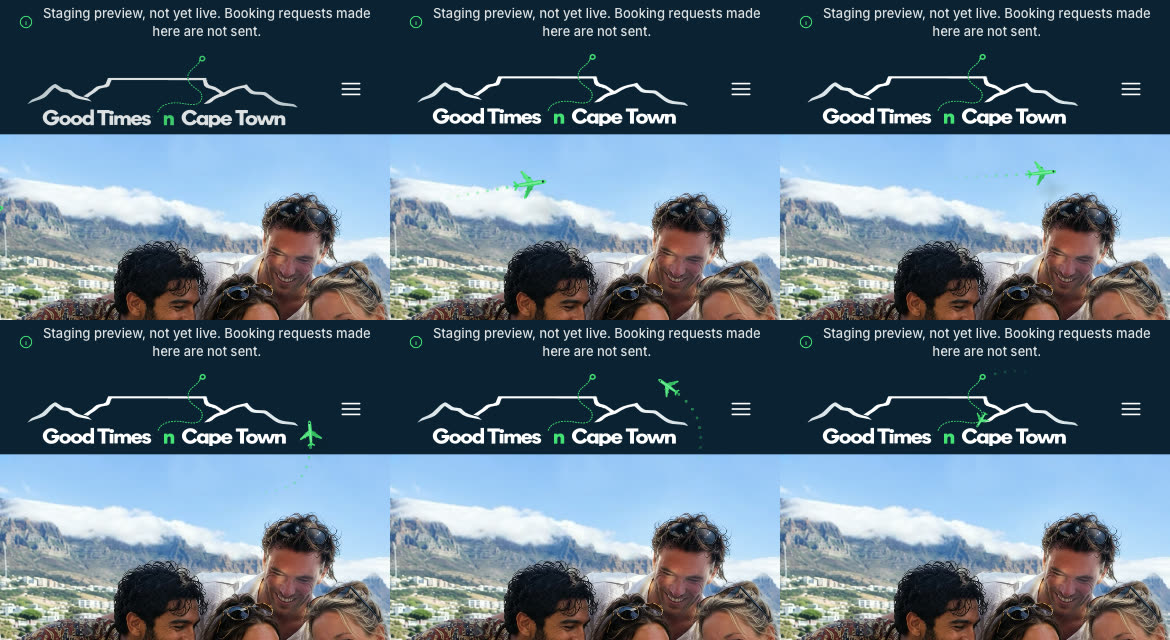
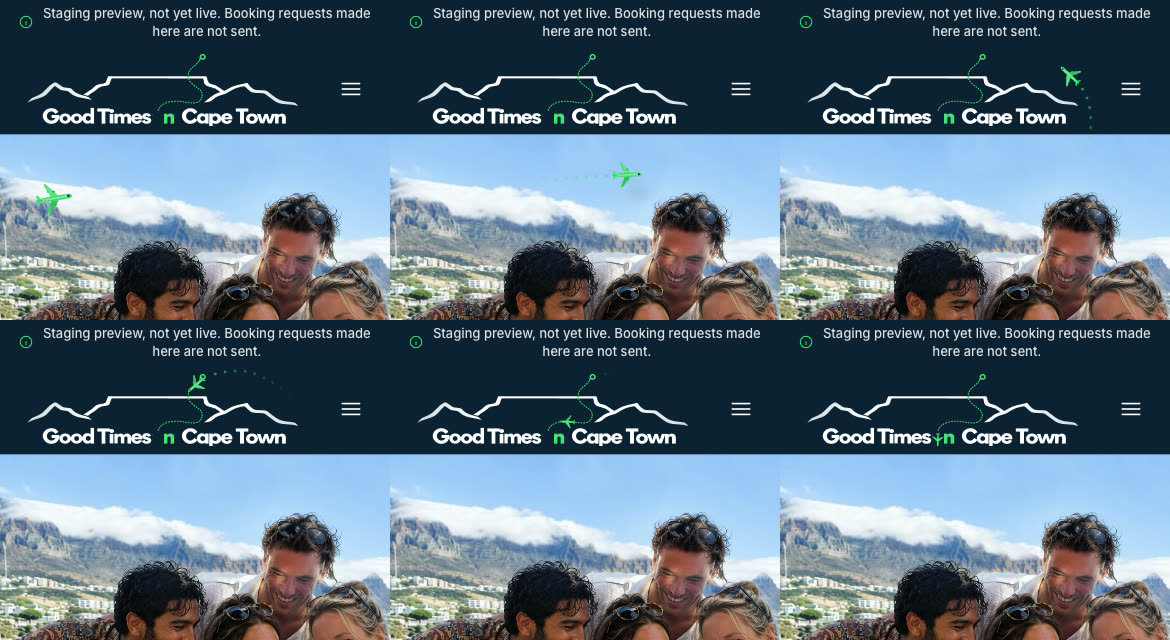
Slow the brand aircraft's flight to 31.5% of its first pace
The owner asked for the hero's aircraft 65% slower, then 10% slower again
(6 Nov 2026). Every time in the flight (the path, the touchdown and the
hand-over to the logo) is now stretched by 1 / (0.35 × 0.9), and the bank
is scaled with it so the aircraft leans the same at the slower speed.

The entrance now lasts about 4.8 s on desktop, 4.0 s on tablets and 2.9 s
on phones; the aircraft lands at about 4.0 s on desktop and the navigation
titles still start at its landing. The call to action keeps its own moment
(2.2 s). The e2e entrance bounds, the QA tool's sampling times, the plane
report (docs/motion/01) and its evidence frames follow the new pace.

diff --git a/src/assets/js/brand-plane.js b/src/assets/js/brand-plane.js
@@ -88,6 +88,14 @@
     return [path.poly[lo][0] + (path.poly[hi][0] - path.poly[lo][0]) * k, path.poly[lo][1] + (path.poly[hi][1] - path.poly[lo][1]) * k];
   }
 
+  /* The flight's pace. The owner asked for it 65% slower, then 10% slower again (6 Nov 2026): the aircraft now flies at
+     31.5% of the first build's speed (0.35 × 0.9), so every time in the flight (the path, the touchdown and the
+     hand-over) is stretched by 1 / 0.315. */
+  var PACE = 1 / (0.35 * 0.9);
+  var at_ = function (seconds) {
+    return seconds * PACE;
+  };
+
   function shown(el) {
     return !!el && el.getClientRects().length > 0 && getComputedStyle(el).display !== 'none';
   }
@@ -195,9 +203,9 @@
 
       var big = g.portrait ? 3.4 : 4.6;
       var state = { bank: 0, rot: null };
-      var T = 1.2;
-      var dockAt = 0.02 + T;
-      var handover = dockAt + 0.25;
+      var T = at_(1.2);
+      var dockAt = at_(0.02) + T;
+      var handover = dockAt + at_(0.25);
       // Which of the two is shown follows the playhead, so any seek (forwards, backwards, a replay) is exact: until
       // the handover the logo's airliner is held back (its place is empty from the first frame, as the brief asks)
       // and, once the flight has begun, the copy flies; from the handover on the logo is whole and the layer gone
@@ -238,7 +246,7 @@
               var dr = rot - state.rot;
               while (dr > 180) dr -= 360;
               while (dr < -180) dr += 360;
-              var target = clamp(dr * 2.4, -15, 15);
+              var target = clamp(dr * 2.4 * PACE, -15, 15); // per-frame turn × pace: the same bank at any speed
               state.bank += (target - state.bank) * 0.22;
             }
             state.rot = rot;
@@ -262,19 +270,19 @@
             }
           },
         },
-        0.02,
+        at_(0.02),
       );
 
       // Touchdown: square to the glyph, settle 1.5 px past and back, flight detail away, then hand over to the logo
-      flight.to(plane, { rotation: 0, duration: 0.24, ease: 'power2.out' }, dockAt);
-      flight.to(plane, { y: g.G[1] + 1.5, duration: 0.1, ease: 'sine.out' }, dockAt);
-      flight.to(plane, { y: g.G[1], x: g.G[0], scale: 1, duration: 0.14, ease: 'sine.inOut' }, dockAt + 0.1);
-      flight.to(bankEl, { scaleX: 1, duration: 0.18 }, dockAt);
-      flight.to(shadow, { opacity: 0, duration: 0.12 }, dockAt);
-      flight.to(detail, { opacity: 0, duration: 0.2, ease: 'power1.out' }, dockAt);
+      flight.to(plane, { rotation: 0, duration: at_(0.24), ease: 'power2.out' }, dockAt);
+      flight.to(plane, { y: g.G[1] + 1.5, duration: at_(0.1), ease: 'sine.out' }, dockAt);
+      flight.to(plane, { y: g.G[1], x: g.G[0], scale: 1, duration: at_(0.14), ease: 'sine.inOut' }, dockAt + at_(0.1));
+      flight.to(bankEl, { scaleX: 1, duration: at_(0.18) }, dockAt);
+      flight.to(shadow, { opacity: 0, duration: at_(0.12) }, dockAt);
+      flight.to(detail, { opacity: 0, duration: at_(0.2), ease: 'power1.out' }, dockAt);
       if (variant === 'prop') {
-        flight.to(prop, { opacity: 0, duration: 0.2 }, dockAt + 0.02);
-        flight.to(finalGlyph, { opacity: 1, duration: 0.2 }, dockAt + 0.02);
+        flight.to(prop, { opacity: 0, duration: at_(0.2) }, dockAt + at_(0.02));
+        flight.to(finalGlyph, { opacity: 1, duration: at_(0.2) }, dockAt + at_(0.02));
       }
       // An empty tween holds the timeline open to the handover, where sync() gives the logo back
       flight.to({}, { duration: 0.001 }, handover - 0.001);

diff --git a/src/assets/js/hero.js b/src/assets/js/hero.js
@@ -4,7 +4,8 @@
    of "in" (brand-plane.js), and its landing starts the navigation titles one by one; then the one call to action,
    Good Times start Here!, rises into the bottom-left corner and a single sheen crosses it. Whole elements only,
    opacity and small transforms (y, a touch of scale on the wordmark and the call to action), overlapping so it reads
-   as one piece: about 3.7 s on desktop, 3.1 s on tablets and 2.3 s on phones.
+   as one piece: about 4.8 s on desktop, 4.0 s on tablets and 2.9 s on phones (the aircraft at the owner's slower pace,
+   6 Nov 2026: it lands at about 4.0 s on desktop; the call to action keeps its own moment, 2.2 s).
    The phone is not part of it: its first photograph is there from the first paint, and its gallery
    (phone-gallery.js) begins to swipe on its own. It runs once per load, only when motion is allowed
    (html.cine from the inline gate) and GSAP has loaded; otherwise nothing is hidden or moved and the logo is whole.
@@ -67,14 +68,14 @@
     if (brand) tl.to(brand, { opacity: 1, y: 0, scale: 1, duration: plane ? 0.5 : 1.2 }, 'brand');
     if (bookNow) tl.to(bookNow, { opacity: 1, y: 0, duration: 1 }, 'brand+=0.15');
 
-    // The aircraft (0.15–1.55 s): in from the left, along the logo's route, landing as the "i" of "in"
+    // The aircraft (0.15–4.8 s): in from the left, along the logo's route, landing as the "i" of "in"
     var landing = 0.7;
     if (plane) {
       tl.add(plane.timeline, 'brand+=0.15');
       landing = 0.15 + plane.landsAt + 0.08;
     }
 
-    // Act II — the navigation titles, one after another, from the landing (1.55–2.2 s) or from 0.7 s without it
+    // Act II — the navigation titles, one after another, from the landing (about 4.1–4.8 s) or from 0.7 s without it
     tl.addLabel('titles', landing);
     if (titles.length) tl.to(titles, { opacity: 1, y: 0, duration: plane ? 0.3 : 0.9, stagger: plane ? 0.085 : 0.28 }, 'titles');
 

diff --git a/docs/motion/01-plane-validation.md b/docs/motion/01-plane-validation.md
@@ -9,11 +9,16 @@ Gate 1. Files: `src/partials/aircraft.mjs` (geometry and markup), `src/assets/js
 1. From the first frame the logo's own airliner (the "i" of "in") is held back by a mask hole the size of its box. Nothing else in either lockup falls inside that hole (tested).
 2. At 0.15 s a flying copy enters from the left, already at speed, about 55 px wide on desktop and 41 px on phones. It crosses the hero's sky (above every face), with a short dotted trail like the logo's own dots, a soft shadow that shrinks as it descends, and a bank of up to about 15° drawn from its turn rate.
 3. It makes a climbing turn to the right of the logo, reaches the location pin and then **follows the logo's dotted route, dot by dot** (MotionPathPlugin along a path measured from the page), shrinking to the glyph's size.
-4. It touches down nose-down on the glyph at 1.37 s, squares up and settles 1.5 px past and back, while its flight detail (fuselage highlight, wing shading, cockpit glass, engine nacelles, red and green navigation lights) fades away. In the first build that detail never showed: the flat landed glyph was drawn on top of it for the whole flight. The independent review caught this (05, A1); now the landed glyph stays hidden until touchdown (`qa/plane-detail-zoom.jpg`).
-5. At 1.62 s it hands over to the logo in one frame. The copy is the glyph's exact outline at the glyph's measured box, so the swap is invisible.
-6. The navigation titles start at the landing (1.45 s) at 85 ms intervals and are all in by 2.1 s. Then, as before, the call to action rises at 2.2 s and the sheen crosses it at 2.82 s.
+4. It touches down nose-down on the glyph at 4.02 s, squares up and settles 1.5 px past and back, while its flight detail (fuselage highlight, wing shading, cockpit glass, engine nacelles, red and green navigation lights) fades away. In the first build that detail never showed: the flat landed glyph was drawn on top of it for the whole flight. The independent review caught this (05, A1); now the landed glyph stays hidden until touchdown (`qa/plane-detail-zoom.jpg`).
+5. At 4.82 s it hands over to the logo in one frame. The copy is the glyph's exact outline at the glyph's measured box, so the swap is invisible.
+6. The navigation titles start at the landing (4.10 s) at 85 ms intervals and are all in by 4.75 s. The call to action keeps its own moment: it rises at 2.2 s, while the aircraft is still in the air, and the sheen crosses it at 2.82 s.
 
-Times are on desktop; tablets run 1.2× faster and phones 1.65× faster (the existing entrance's rule).
+Times are on desktop; tablets run 1.2× faster and phones 1.65× faster (the existing entrance's rule). On a phone it
+touches down at 2.44 s and the entrance ends at 2.92 s.
+
+**Pace:** the owner asked for the flight 65 % slower, then 10 % slower again (6 Nov 2026). The aircraft now flies at
+31.5 % of the first build's speed (0.35 × 0.9), the package's 0.55–1.28 s flight window included: every time in the
+flight is stretched by 1 / 0.315 (`PACE` in `brand-plane.js`). The bank gain follows the pace, so the turns bank as much as before.
 
 ## The aircraft: an owner approval item (M1)
 
@@ -62,13 +67,13 @@ The browser test (`test/e2e/motion.spec.mjs`) asserts an error under 0.5 px on d
 
 ## Screenshots
 
-- `qa/plane-1440x900-flight.jpg`: t = 0.40, 0.70, 0.95, 1.15, 1.30, 1.45 s, desktop
-- `qa/plane-390x844-flight.jpg`: the same moments on a phone (1.65× faster)
+- `qa/plane-1440x900-flight.jpg`: timeline t = 0.7, 1.4, 2.1, 2.7, 3.3, 3.9 s, desktop
+- `qa/plane-390x844-flight.jpg`: timeline t = 0.7, 1.4, 2.1, 2.7, 3.3, 4.4 s on a phone (played 1.65× faster)
 - `qa/plane-1440x900-landed-zoom.jpg`: the lockup after the landing, magnified
-- `qa/plane-detail-zoom.jpg`: the airliner in flight at 2×, t = 0.5, 0.75, 1.0, 1.25 s (bank visible in the turn)
+- `qa/plane-detail-zoom.jpg`: the airliner in flight at 2× (captured at the first build's pace; the drawing is the same)
 - `qa/motion-1280x800.mp4`: the whole entrance, then the sand journey
 
 ## Owner approval items
 
 - **M1** the aircraft (above);
-- **M2** the flight: the final leg follows the logo's own dotted route from the pin, and the titles' pace is 85 ms apart, as the package specifies (it was 280 ms).
+- **M2** the flight: the final leg follows the logo's own dotted route from the pin, at the slower pace the owner asked for, and the titles are 85 ms apart, as the package specifies (it was 280 ms).
